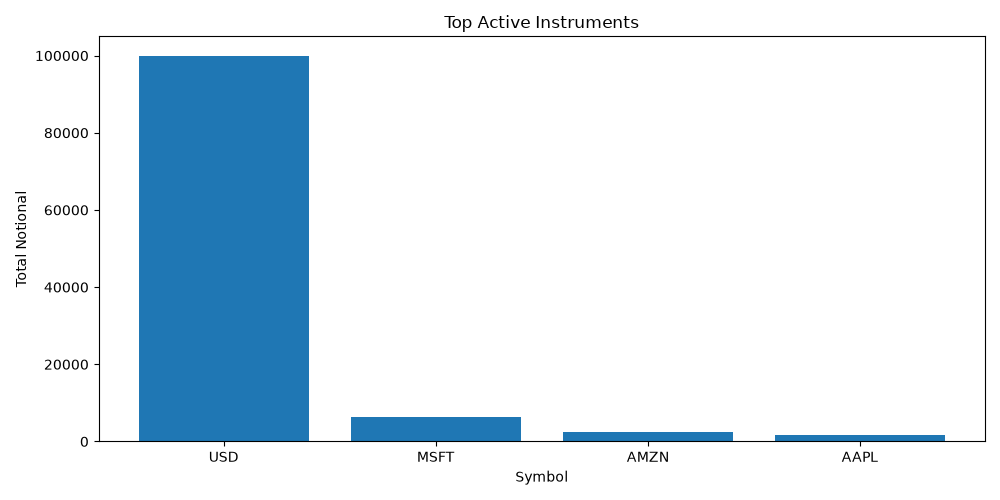
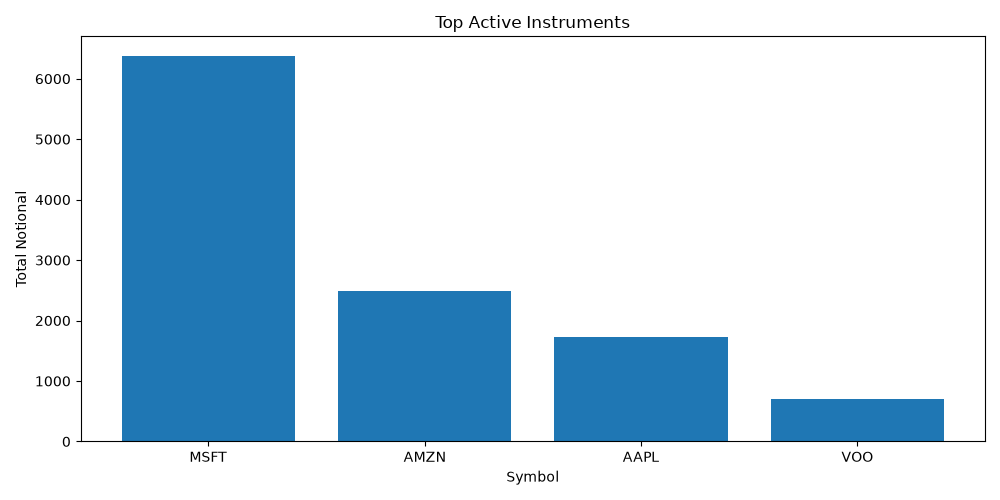
changed mock to real API price

diff --git a/src/main/java/com/ceo/trading_platform_backend/services/MockMarketService.java b/src/main/java/com/ceo/trading_platform_backend/services/MockMarketService.java
@@ -5,10 +5,8 @@ import java.time.LocalDate;
 import java.util.ArrayList;
 import java.util.List;
 
-import org.springframework.stereotype.Service;
-
 import com.ceo.trading_platform_backend.enums.InstrumentType;
-@Service // UNCOMMMENT THIS FOR MOCK MARKET SERVICE AND COMMENT IN REAL
+// Mock provider retained for isolated tests/manual development; not registered as the application bean.
 public class MockMarketService implements com.ceo.trading_platform_backend.services.MarketService{
     
     public MockMarketService() {} // idk what does in constructor for mock

diff --git a/src/main/java/com/ceo/trading_platform_backend/services/RealMarketService.java b/src/main/java/com/ceo/trading_platform_backend/services/RealMarketService.java
@@ -26,7 +26,7 @@ import com.ceo.trading_platform_backend.services.MarketService.SymbolMetadataDat
 import com.fasterxml.jackson.annotation.JsonIgnoreProperties;
 import com.fasterxml.jackson.databind.ObjectMapper;
 
-// @Service // UNCOMMMENT THIS FOR REAL MARKET SERVICE AND COMMENT IN MOCK
+@Service
 public class RealMarketService implements com.ceo.trading_platform_backend.services.MarketService {
 
 	private static final int MAX_BATCH_QUOTES = 25;
